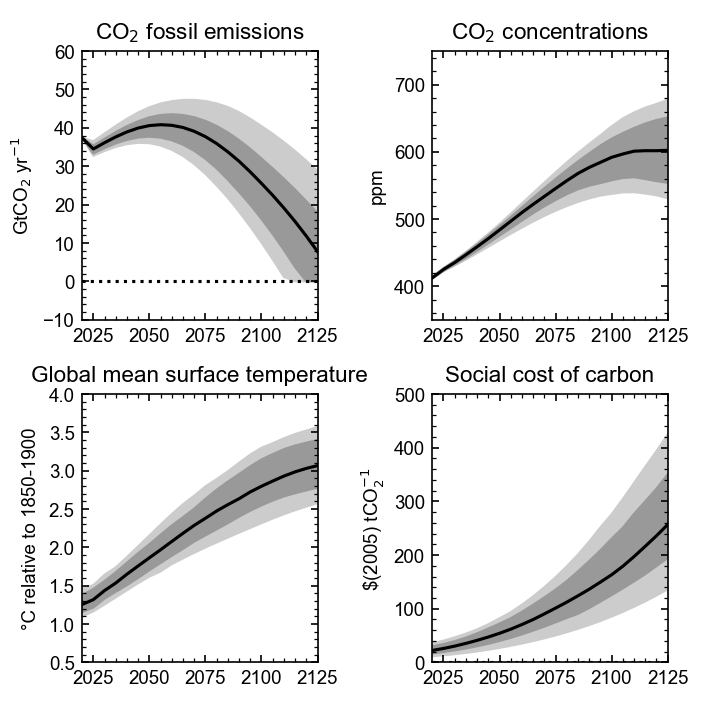
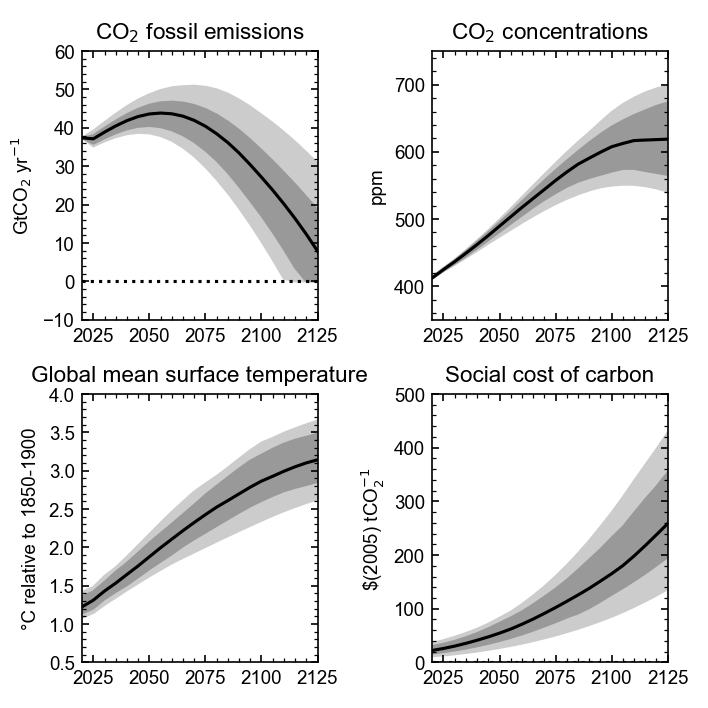
experiment

diff --git a/scripts/3_get-temperature-non-co2-forcing.py b/scripts/3_get-temperature-non-co2-forcing.py
@@ -186,8 +186,6 @@ for i, scenario in enumerate(scenarios):
     df = pd.DataFrame((np.nansum(f.forcing[54:, i, :, :], axis=-1) - f.forcing[54:, i, :, 2] - f.forcing[54:, i, :, 54:56].mean(axis=-1)), index=range(2020, 2505, 5), columns=configs).T
     df.to_csv(os.path.join(here, '..', 'data_output', 'climate_configs', f'anthropogenic_non-co2_forcing_{scenario}.csv'))
 
-    #df = pd.DataFrame(f.temperature[54, i, :, :]-f.temperature[20:30, i, :, :].mean(axis=0), index=configs, columns=['mixed_layer', 'mid_ocean', 'deep_ocean'])
-    df = pd.DataFrame(f.temperature[54, i, :, :], index=configs, columns=['mixed_layer', 'mid_ocean', 'deep_ocean'])
-    df_offset = pd.DataFrame(f.temperature[20:30, i, :, 0].mean(axis=0), index=configs, columns=['tas_offset_1850_1900'])
-    df = pd.concat((df, df_offset), axis=1)
+    # use surface layer 1850-1900 offset; apply same offset to all layers to preserve differences between layers that drives diffusion
+    df = pd.DataFrame(f.temperature[54, i, :, :]-f.temperature[20:30, i, :, 0].mean(axis=0), index=configs, columns=['mixed_layer', 'mid_ocean', 'deep_ocean'])
     df.to_csv(os.path.join(here, '..', 'data_output', 'climate_configs', f'temperature_{scenario}.csv'))

diff --git a/scripts/5_run_dice.py b/scripts/5_run_dice.py
@@ -30,7 +30,7 @@ df_temp = pd.read_csv(os.path.join(here, '..', 'data_output', 'climate_configs',
 df_pop = pd.read_csv(os.path.join(here, '..', 'data_input', 'un-population', 'un-median-projections-20220928.csv'), index_col=0)
 pop = df_pop['population_bn'].values
 
-for run, config in tqdm(enumerate(configs[:100])):
+for run, config in tqdm(enumerate(configs[:10])):
     t1 = df_temp.loc[config, 'mixed_layer']
     t2 = df_temp.loc[config, 'mid_ocean']
     t3 = df_temp.loc[config, 'deep_ocean']
@@ -110,7 +110,7 @@ PARAMETERS
         deland   Decline rate of land emissions (per period)           /0.115/
         e0       Industrial emissions 2020 (GtCO2 per year)            /37.39/
 * projections from RCMIP (should use GCP; TODO)
-        miu0     Initial emissions control rate for base case 2015     /0.03/
+        miu0     Initial emissions control rate for base case 2015     /0.0/
 * Initial Conditions
         co2_2020 Initial concentration in atmosphere 2020 (GtC)        /{co2_2020*carbon_convert}/
         co2_1750 Pre-industrial concentration atmosphere  (GtC)        /{co2_1750*carbon_convert}/
